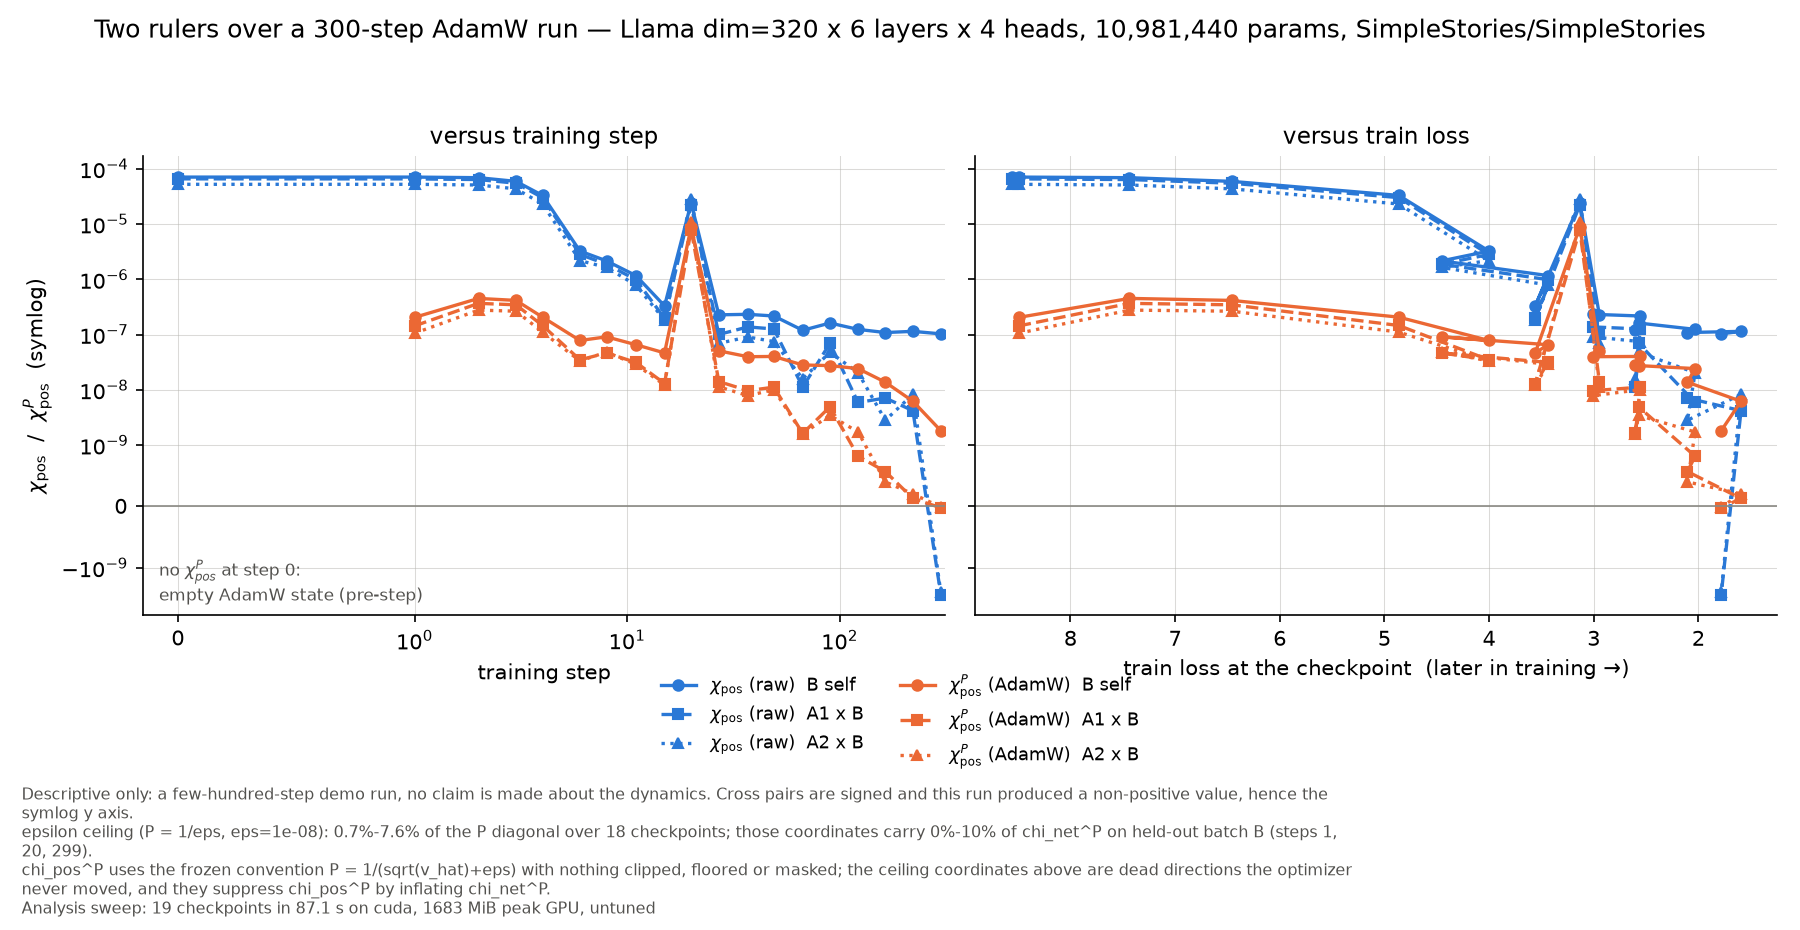
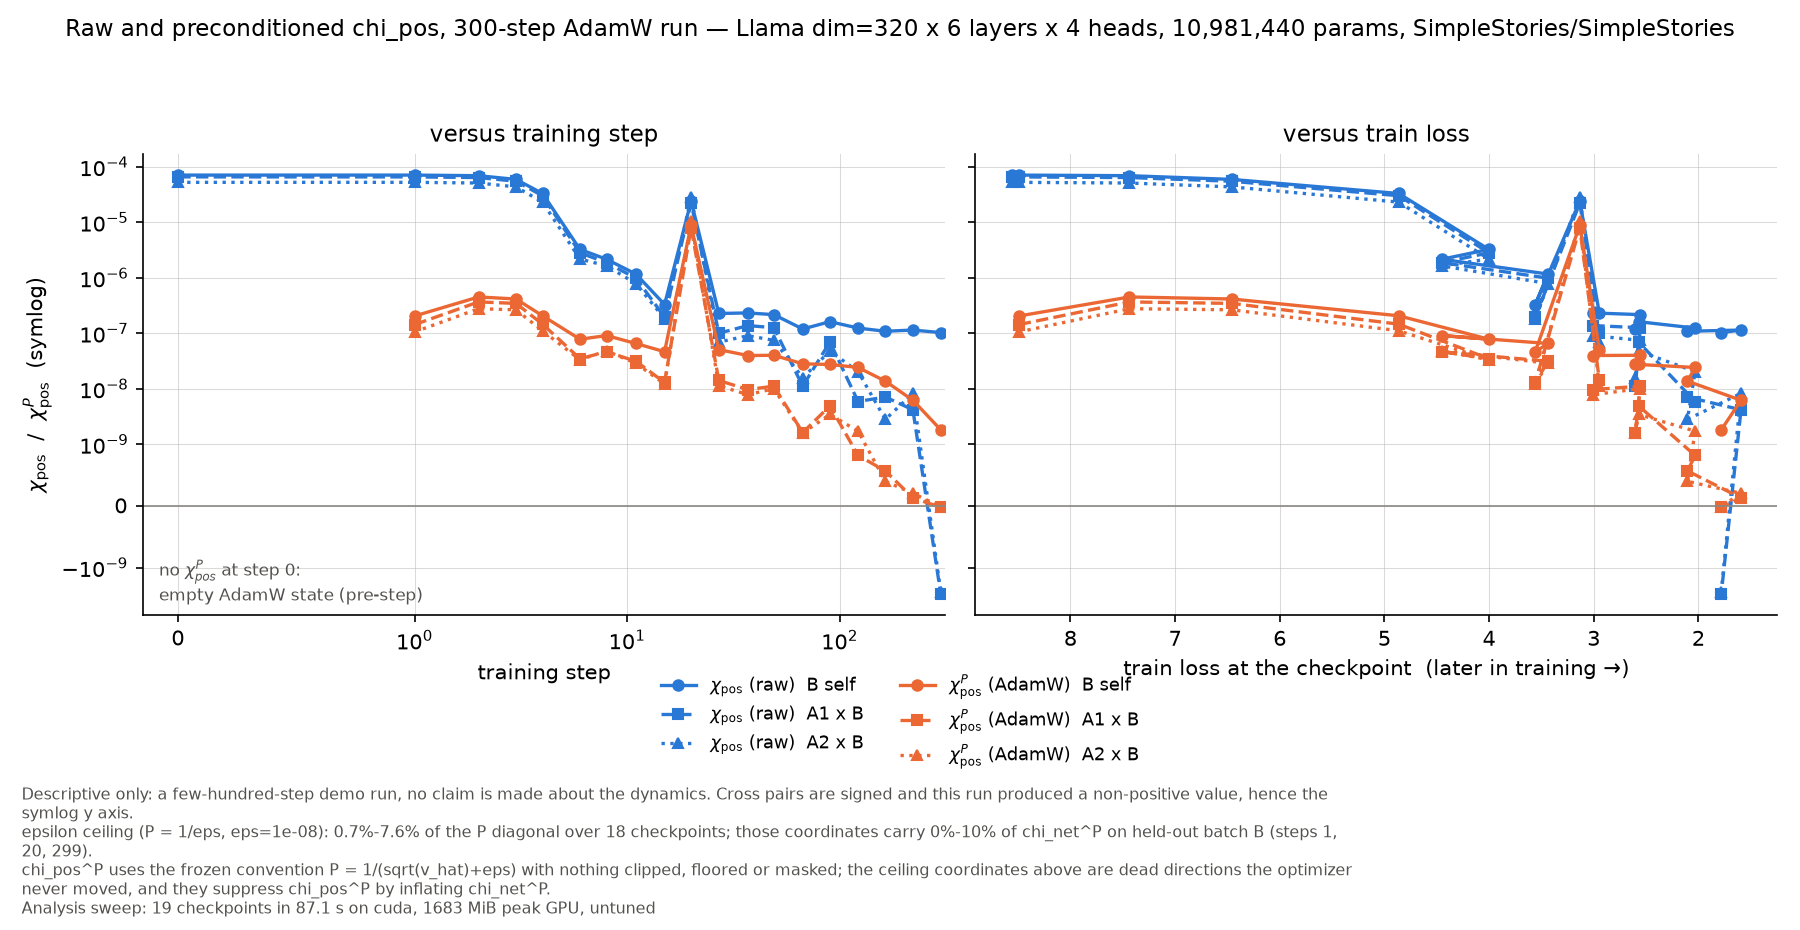
examples: a common figure of the loss and every observable over training
New examples/_plots.py (matplotlib only, no vatis, no torch) draws one
small panel for the loss and one per observable, self pairs solid and
cross pairs dashed, signed panels on a symmetric-log axis. The Llama
evaluate.py calls it with the train loss run_summary.json records and
writes observables_over_training.png.

Wording in the Llama evaluate.py: no "WP0" or "rulers" (RULERS is now
CURVES; nothing outside the file used it). chi_pos_raw_vs_adamw.png is
regenerated from the committed results.parquet and run_summary.json with
the new title; the data are unchanged.

Claude-Session: https://claude.ai/code/session_01XpVuDLPyimSinTVVr5zyzt

diff --git a/examples/_plots.py b/examples/_plots.py
@@ -1,0 +1,236 @@
+"""The common diagnostic figure of the examples: the loss and every observable over training.
+
+One small panel for the loss, then one panel per observable, each against the
+training step. Every panel shows the self pairs (solid line, filled marker) and
+the cross pairs (dashed line, hollow marker); the colour follows the first
+batch of the pair. A panel whose values are all positive has a log y axis; a
+panel with a value at or below zero (cross pairs are signed) has a
+symmetric-log axis: logarithmic in both directions, linear in a band around
+zero, with a line at zero.
+
+Used by the evaluate scripts, which read the rows with ``pyarrow``::
+
+    rows = pq.read_table("results.parquet").to_pylist()
+    plot_observables_over_training(rows, losses, "observables_over_training.png",
+                                   title="...", loss_label="...")
+
+Needs matplotlib only; it imports neither vatis nor torch.
+"""
+
+from __future__ import annotations
+
+import math
+import re
+from collections.abc import Iterable, Mapping
+from pathlib import Path
+from typing import Any
+
+import matplotlib
+
+matplotlib.use("Agg")  # headless — no display backend
+
+import matplotlib.pyplot as plt  # noqa: E402
+from matplotlib.lines import Line2D  # noqa: E402
+
+# Categorical hues in a fixed order (checked for colour-vision-deficiency
+# separation on this surface); identity is also carried by marker and legend.
+COLOURS = ("#2a78d6", "#eb6834", "#1baf7a", "#eda100")
+MARKERS = ("o", "s", "^", "D")
+INK, MUTED, GRID, SURFACE = "#2b2b29", "#6f6e68", "#e4e3de", "#fcfcfb"
+
+# Panel order; observables not listed here follow in alphabetical order.
+OBSERVABLE_ORDER = (
+    "chi_loss",
+    "chi_loss_normalized",
+    "chi_net",
+    "chi_net_normalized",
+    "delta_loss",
+    "chi_pos",
+    "delta_loss_P",
+    "chi_net_P",
+    "chi_pos_P",
+    "delta_loss_P_capped",
+    "chi_net_P_capped",
+)
+
+
+def step_of(revision: str) -> int:
+    """The training step at the end of a revision label (``step512`` -> 512)."""
+    match = re.search(r"(\d+)$", revision)
+    if match is None:
+        raise ValueError(f"no step number at the end of revision {revision!r}")
+    return int(match.group(1))
+
+
+def plot_observables_over_training(
+    rows: Iterable[Mapping[str, Any]],
+    losses: Mapping[str, Mapping[int, float]],
+    path: str | Path,
+    *,
+    title: str,
+    loss_label: str,
+    note: str = "",
+    columns: int = 3,
+) -> Path:
+    """Draw the figure and save it to ``path``.
+
+    Args:
+        rows: result rows with at least ``revision``, ``batch_a``, ``batch_b``,
+            ``observable`` and ``value`` (as ``pq.read_table(...).to_pylist()``).
+        losses: ``{series name: {step: loss}}``. A name that is also a batch
+            name is drawn in that batch's colour; any other name (for example
+            the train loss a run recorded) is drawn in ink.
+        path: the PNG to write.
+        title: the figure title.
+        loss_label: the y label of the loss panel, with its unit.
+        note: one line of small print under the panels (sources, caveats).
+        columns: panels per row.
+    """
+    series: dict[str, dict[tuple[str, str], dict[int, float]]] = {}
+    batches: list[str] = []
+    for row in rows:
+        a, b = row["batch_a"], row["batch_b"]
+        if a == b and a not in batches:
+            batches.append(a)
+        pair = series.setdefault(row["observable"], {}).setdefault((a, b), {})
+        pair[step_of(row["revision"])] = float(row["value"])
+    for a, _b in (pair for pairs in series.values() for pair in pairs):
+        if a not in batches:
+            batches.append(a)
+    if len(batches) > len(COLOURS):
+        raise ValueError(f"{len(batches)} batches, but only {len(COLOURS)} colours: {batches}")
+    style = {name: (COLOURS[i], MARKERS[i]) for i, name in enumerate(batches)}
+
+    observables = [o for o in OBSERVABLE_ORDER if o in series]
+    observables += sorted(o for o in series if o not in OBSERVABLE_ORDER)
+    n_panels = 1 + len(observables)
+    n_rows = math.ceil(n_panels / columns)
+    fig, axes = plt.subplots(
+        n_rows,
+        columns,
+        figsize=(4.2 * columns, 2.9 * n_rows + 0.8),
+        sharex=True,
+        facecolor=SURFACE,
+        squeeze=False,
+    )
+    flat = list(axes.ravel())
+    all_steps = sorted({s for pairs in series.values() for p in pairs.values() for s in p})
+
+    # The loss panel.
+    ax = flat[0]
+    for name, by_step in losses.items():
+        colour, marker = style.get(name, (INK, "o"))
+        steps = sorted(by_step)
+        ax.plot(steps, [by_step[s] for s in steps], color=colour, marker=marker, markersize=4)
+    ax.set_title("loss", loc="left", color=INK, fontsize=10)
+    ax.set_ylabel(loss_label, color=INK, fontsize=9)
+
+    # One panel per observable: self pairs solid, cross pairs dashed and hollow.
+    for ax, observable in zip(flat[1:], observables, strict=False):
+        values: list[float] = []
+        pairs = sorted(series[observable].items(), key=lambda item: (item[0][0] != item[0][1],))
+        for (a, b), by_step in pairs:
+            colour, marker = style[a]
+            cross = a != b
+            steps = sorted(by_step)
+            ys = [by_step[s] for s in steps]
+            values += ys
+            ax.plot(
+                steps,
+                ys,
+                color=colour,
+                marker=marker,
+                markersize=4,
+                linestyle="--" if cross else "-",
+                markerfacecolor=SURFACE if cross else colour,
+                markeredgecolor=colour,
+            )
+        _set_y_scale(ax, values)
+        ax.set_title(observable, loc="left", color=INK, fontsize=10)
+
+    for ax in flat[:n_panels]:
+        _set_x_scale(ax, all_steps)
+        ax.set_facecolor(SURFACE)
+        ax.grid(True, which="major", color=GRID, linewidth=0.6)
+        ax.tick_params(colors=MUTED, labelsize=8)
+        for side in ("top", "right"):
+            ax.spines[side].set_visible(False)
+        for side in ("left", "bottom"):
+            ax.spines[side].set_color(GRID)
+    # The bottom panel of every column carries the x axis label and tick labels.
+    for column in range(columns):
+        filled = [i for i in range(column, n_panels, columns)]
+        if not filled:
+            continue
+        bottom = flat[filled[-1]]
+        bottom.xaxis.set_tick_params(labelbottom=True)
+        bottom.set_xlabel("training step", color=INK, fontsize=9)
+    for ax in flat[n_panels:]:
+        ax.set_visible(False)
+
+    handles = [
+        Line2D([], [], color=style[a][0], marker=style[a][1], label=f"{a} (self pair)")
+        for a in batches
+        if any((a, a) in pairs for pairs in series.values())
+    ]
+    cross_pairs = sorted(
+        {pair for pairs in series.values() for pair in pairs if pair[0] != pair[1]}
+    )
+    handles += [
+        Line2D(
+            [],
+            [],
+            color=style[a][0],
+            marker=style[a][1],
+            linestyle="--",
+            markerfacecolor=SURFACE,
+            label=f"{a} × {b} (cross pair)",
+        )
+        for a, b in cross_pairs
+    ]
+    fig.suptitle(title, color=INK, fontsize=12, x=0.01, ha="left")
+    fig.legend(
+        handles=handles,
+        loc="upper left",
+        bbox_to_anchor=(0.01, 1 - 0.4 / fig.get_figheight()),
+        ncols=min(len(handles), 5),
+        frameon=False,
+        fontsize=9,
+        labelcolor=INK,
+    )
+    if note:
+        fig.text(0.01, 0.005, note, color=MUTED, fontsize=8, va="bottom")
+    top = 1 - 0.65 / fig.get_figheight()
+    bottom_margin = 0.35 / fig.get_figheight() if note else 0.0
+    fig.tight_layout(rect=(0, bottom_margin, 1, top))
+    out = Path(path)
+    fig.savefig(out, dpi=110, facecolor=SURFACE)
+    plt.close(fig)
+    return out
+
+
+def _set_x_scale(ax: Any, steps: list[int]) -> None:
+    """Log steps; a symmetric-log axis when step 0 is present (log cannot show it)."""
+    if steps and steps[0] <= 0:
+        ax.set_xscale("symlog", linthresh=1, linscale=0.5)
+        ax.set_xlim(left=-0.2)
+    else:
+        ax.set_xscale("log")
+
+
+def _set_y_scale(ax: Any, values: list[float]) -> None:
+    """Log when every value is positive, else symmetric-log with a line at zero.
+
+    The linear band is the power of ten below the 10th percentile of the nonzero
+    magnitudes, so that one value near zero does not squeeze the rest.
+    """
+    finite = [v for v in values if math.isfinite(v)]
+    magnitudes = sorted(abs(v) for v in finite if v != 0.0)
+    if not magnitudes:
+        return
+    if all(v > 0.0 for v in finite):
+        ax.set_yscale("log")
+        return
+    low = magnitudes[max(0, int(0.10 * (len(magnitudes) - 1)))]
+    ax.set_yscale("symlog", linthresh=10 ** math.floor(math.log10(low)), linscale=0.6)
+    ax.axhline(0.0, color=MUTED, linewidth=0.8)

diff --git a/examples/optimizer_aware_llama/evaluate.py b/examples/optimizer_aware_llama/evaluate.py
@@ -1,15 +1,18 @@
-"""WP0 GPU end-to-end example, phase 2: the figure and the tables.
+"""Raw and preconditioned observables over a real Llama checkpoint bundle. Step 2 of 2: figures and tables.
 
 Reads what ``examples/optimizer_aware_llama/run.py`` wrote and produces the deliverables a
 human actually looks at:
 
-- ``examples/optimizer_aware_llama/chi_pos_raw_vs_adamw.png`` — ONE figure, two panels:
+- ``examples/optimizer_aware_llama/chi_pos_raw_vs_adamw.png`` — two panels:
   ``chi_pos`` and ``chi_pos^P`` versus training step, and versus train loss.
+- ``examples/optimizer_aware_llama/observables_over_training.png`` — the common
+  diagnostic figure of the examples (``examples/_plots.py``): the train loss the
+  run recorded and every observable over the training step.
 - the printed performance table (wall time per checkpoint, peak GPU memory,
   total runtime) and the epsilon-ceiling diagnostic.
 
-**This script imports no vatis code** — only ``pyarrow``, ``matplotlib`` and the
-standard library. That is the point of the compute/analysis split
+**This script imports no vatis code** — only ``pyarrow``, ``matplotlib``, the
+standard library and ``examples/_plots.py``. That is the point of the compute/analysis split
 (``CLAUDE.md`` §Research workflow): the parquet is the contract with downstream
 consumers, and the only way to keep a contract honest is to consume it. The one
 thing the parquet cannot carry is per-checkpoint *run* metadata (train loss, lr,
@@ -41,6 +44,7 @@ from __future__ import annotations
 import argparse
 import json
 import math
+import sys
 import textwrap
 from pathlib import Path
 from typing import Any
@@ -52,12 +56,15 @@ matplotlib.use("Agg")  # headless — no display backend
 import matplotlib.pyplot as plt  # noqa: E402
 import pyarrow.parquet as pq  # noqa: E402
 
+sys.path.insert(0, str(Path(__file__).resolve().parents[1]))  # examples/, for _plots
+from _plots import plot_observables_over_training  # noqa: E402
+
 DEFAULT_DIR = Path(__file__).parent
 
-# Hue carries the ruler (the comparison this figure exists for); linestyle and
-# marker carry the batch pair. Two hues, so the palette stays trivially
-# colourblind-safe, and identity is never colour-alone.
-RULERS = {
+# Hue carries raw versus preconditioned (the comparison this figure exists for);
+# linestyle and marker carry the batch pair. Two hues, so the palette stays
+# trivially colourblind-safe, and identity is never colour-alone.
+CURVES = {
     "chi_pos": {"color": "#2a78d6", "label": r"$\chi_{\mathrm{pos}}$ (raw)"},
     "chi_pos_P": {"color": "#eb6834", "label": r"$\chi_{\mathrm{pos}}^{P}$ (AdamW)"},
 }
@@ -146,25 +153,25 @@ def plot(
     }
 
     plotted: list[float] = []
-    for observable in RULERS:
+    for observable in CURVES:
         for pair, _style in PAIRS:
             plotted.extend(series.get((observable, *pair), {}).values())
     scale_name, scale_kwargs = y_scale(plotted)
 
     fig, (ax_step, ax_loss) = plt.subplots(1, 2, figsize=(12.0, 6.2), sharey=True)
 
-    for observable, ruler in RULERS.items():
+    for observable, curve in CURVES.items():
         for pair, (linestyle, marker, pair_label) in PAIRS:
             points = series.get((observable, *pair), {})
             if not points:
                 continue
             steps = sorted(points)
             values = [points[s] for s in steps]
-            label = f"{ruler['label']}  {pair_label}"
+            label = f"{curve['label']}  {pair_label}"
             ax_step.plot(
                 steps,
                 values,
-                color=ruler["color"],
+                color=curve["color"],
                 linestyle=linestyle,
                 marker=marker,
                 markersize=5,
@@ -177,7 +184,7 @@ def plot(
                 ax_loss.plot(
                     [p[0] for p in xy],
                     [p[1] for p in xy],
-                    color=ruler["color"],
+                    color=curve["color"],
                     linestyle=linestyle,
                     marker=marker,
                     markersize=5,
@@ -223,10 +230,10 @@ def plot(
     meta = summary["bundle_metadata"]
     config = meta["model_config"]
     fig.suptitle(
-        f"Two rulers over a {meta['total_steps_planned']}-step AdamW run — "
+        f"Raw and preconditioned chi_pos, {meta['total_steps_planned']}-step AdamW run — "
         f"Llama dim={config['dim']} x {config['n_layers']} layers x {config['n_heads']} heads, "
         f"{meta['num_parameters']:,} params, {meta['dataset_id']}",
-        fontsize=12,
+        fontsize=11,
     )
     handles, labels = ax_step.get_legend_handles_labels()
     fig.tight_layout(rect=(0, 0.24, 1, 0.94))
@@ -237,7 +244,7 @@ def plot(
         bbox_to_anchor=(0.5, 0.155),
         fontsize=8.5,
         frameon=False,
-        ncols=2,  # column-major fill puts the raw ruler in one column, P in the other
+        ncols=2,  # column-major fill puts the raw curves in one column, P in the other
     )
     fig.text(
         0.012, 0.012, caption(summary, scale_name), fontsize=7.5, color=TEXT_MUTED, va="bottom"
@@ -311,6 +318,26 @@ def span(values: list[float], spec: str) -> str:
     if format(low, spec) == format(high, spec):
         return format(low, spec)
     return f"{format(low, spec)}-{format(high, spec)}"
+
+
+def plot_overview(directory: Path, rows: list[dict[str, Any]], summary: dict[str, Any]) -> Path:
+    """The common diagnostic figure: the recorded train loss and every observable."""
+    train_loss = {
+        int(c["step"]): c["train_loss"]
+        for c in summary["checkpoints"]
+        if c.get("train_loss") is not None
+    }
+    meta = summary["bundle_metadata"]
+    return plot_observables_over_training(
+        rows,
+        {"train loss": train_loss},
+        directory / "observables_over_training.png",
+        title=f"Llama ({meta['num_parameters']:,} parameters), {meta['total_steps_planned']}-step "
+        "AdamW run: loss and every observable over training",
+        loss_label="train loss (nats per token)",
+        note="Loss: the train loss the run recorded at each checkpoint (run_summary.json). "
+        "A1, A2, B: held-out batches. The _P rows start at step 1 (no optimizer state at step 0).",
+    )
 
 
 # ------------------------------------------------------------------- printing
@@ -417,6 +444,7 @@ def main(argv: list[str] | None = None) -> int:
     print_tables(rows, summary)
     path = plot(directory, rows, summary)
     print(f"\nwrote {path}")
+    print(f"wrote {plot_overview(directory, rows, summary)}")
     return 0
 
 
